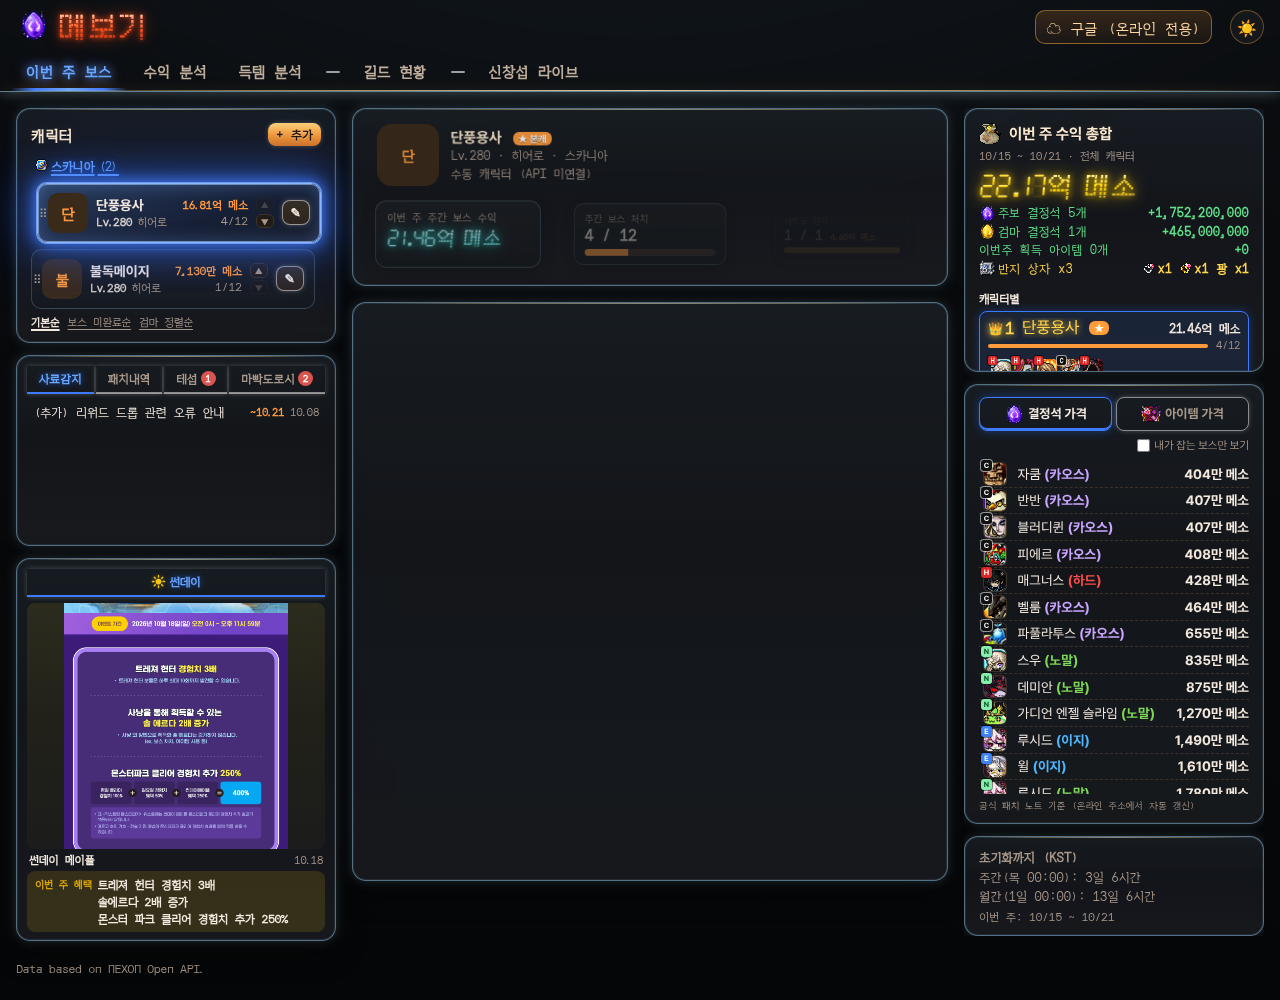
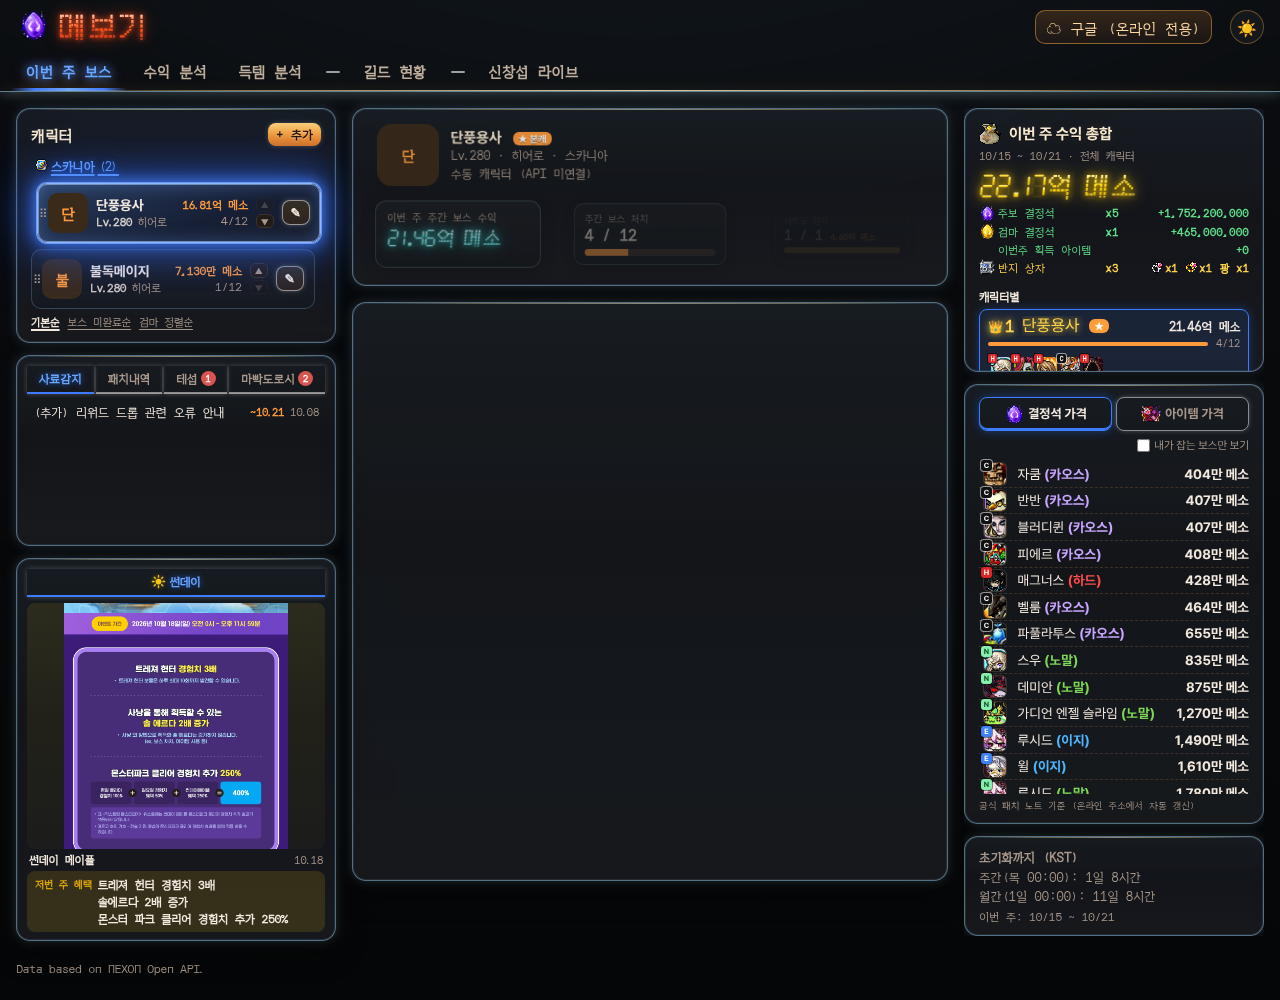
b225: 이번주 획득 아이템·주보 결정석 xN 0개여도 x0, 검마 아이템(이번 주) 개수 포함

Changed region(s): [[0.75, 0.186, 0.9688, 0.372], [0.9062, 0.186, 0.9688, 0.279]]

diff --git a/index.html b/index.html
@@ -2761,7 +2761,7 @@ const miniIcon = k => ITEM_ICONS[k] ? `<img class="ric" src="${ITEM_ICONS[k]}" a
 const outIcon = o => o==='r4'?miniIcon('ring_restraint'):o==='c4'?miniIcon('ring_continuous'):o==='gl'?miniIcon('g_life'):'';
 const xN = n => 'x'+n;
 /* b221: 이번 주 수익 총합 줄 = 이름 칸(고정 너비) + 개수 칸 xN — 주보·검마 결정석·획득 아이템·반지 상자·남은 결정석 개수가 한 세로줄 */
-const rpLbl = (lb,n) => `<span class="tsmn rplb">${esc(lb)}</span>${n>0?`<span class="tsmn rpx">${xN(n)}</span>`:''}`; // 개수 표기 공통: '리4 x1', '컨4 x3' (0개는 표시하지 않음)
+const rpLbl = (lb,n,z) => `<span class="tsmn rplb">${esc(lb)}</span>${n>0||z?`<span class="tsmn rpx">${xN(n)}</span>`:''}`; // 개수 표기 공통: '리4 x1', '컨4 x3' (0개는 표시하지 않음 — b225: z 면 x0 도 표시)
 function outTally(list, n){ const t={r4:0,c4:0,gl:0,x:0,un:0}; (list||[]).forEach(o=>{ if(o in t) t[o]++; }); t.un=Math.max(0,(+n||0)-(list||[]).length); return t; }
 // 순서대로: '미기록 · 리4 · 꽝' / compact: '리4×2 · 꽝×3 · 미기록×1'
 function outHtml(list, n, compact){
@@ -3807,10 +3807,10 @@ function revPanel(a,cur){
   return `<aside class="revpanel card" aria-label="이번 주 수익 총합">
     <h2>${miniIcon('meso')} 이번 주 수익 총합</h2>
     <div class="muted" style="font-size:.75rem;margin-top:-6px">${fmtWeek(S.period.week)} · 전체 캐릭터</div>
-    ${(()=>{ const cry=a.total+wm.meso, sale=per.reduce((t,p)=>t+pItemSale(p.c),0), n=vchars().reduce((t,c)=>t+Object.entries(c.drops||{}).reduce((x,[k,v])=>x+(isRing(parseIK(k).it)?0:(+v||0)),0),0); // b121: 반지 상자 제외
+    ${(()=>{ const cry=a.total+wm.meso, sale=per.reduce((t,p)=>t+pItemSale(p.c),0), n=vchars().reduce((t,c)=>t+Object.entries(c.drops||{}).reduce((x,[k,v])=>x+(isRing(parseIK(k).it)?0:(+v||0)),0)+Object.entries(c.mdrops||{}).reduce((x,[k,v])=>x+(isRing(parseIK(k).it)||c.monthly?.[parseIK(k).slot]!==S.period.week?0:(+v||0)),0),0); // b121: 반지 상자 제외(아래 '반지 상자' 줄) · b225: 이번 주에 잡은 검마 아이템(mdrops)도 셈 (판매 금액 pItemSale 과 같은 규칙)
       return `<div class="rp-total tirv tgoldv">${tirN(cry+sale,'eok','rp',' 메소')}</div>
-    <div class="muted rp-line rp-cry rc-g"><span class="rpl"><span class="rpg">${miniIcon('ipc')}${rpLbl('주보 결정석',a.count)}</span></span><b class="rpn">${tsm('+'+a.total.toLocaleString())}</b></div>${wm.n||wm.meso?`<div class="muted rp-line rp-cry rp-cm rc-g"><span class="rpl"><span class="rpg">${miniIcon('ipcm')}${rpLbl('검마 결정석',wm.n)}</span></span><b class="rpn">${tsm('+'+wm.meso.toLocaleString())}</b></div>`:''}
-    <div class="muted rp-line rp-sale rc-g"><span class="rpl"><span class="rpg">${topSaleIco()||'<span class="ric rpico0" aria-hidden="true"></span>'}${rpLbl('이번주 획득 아이템',n)}</span></span><b class="rpn">${tsm('+'+sale.toLocaleString())}</b></div>${weekRingLine()}${weekLeftLines(per.map(p=>p.c))}`; })()}
+    <div class="muted rp-line rp-cry rc-g"><span class="rpl"><span class="rpg">${miniIcon('ipc')}${rpLbl('주보 결정석',a.count,1)}</span></span><b class="rpn">${tsm('+'+a.total.toLocaleString())}</b></div>${wm.n||wm.meso?`<div class="muted rp-line rp-cry rp-cm rc-g"><span class="rpl"><span class="rpg">${miniIcon('ipcm')}${rpLbl('검마 결정석',wm.n)}</span></span><b class="rpn">${tsm('+'+wm.meso.toLocaleString())}</b></div>`:''}
+    <div class="muted rp-line rp-sale rc-g"><span class="rpl"><span class="rpg">${topSaleIco()||'<span class="ric rpico0" aria-hidden="true"></span>'}${rpLbl('이번주 획득 아이템',n,1)}</span></span><b class="rpn">${tsm('+'+sale.toLocaleString())}</b></div>${weekRingLine()}${weekLeftLines(per.map(p=>p.c))}`; })()}
     <div class="rp-sec">캐릭터별</div>
     <div class="rp-list">${per.map(p=>`<div class="rp-char ${p.c===cur?'on':''}" data-id="${p.c.id}" title="${esc(p.c.name)} 선택">
       <div class="rp-row rp-top">${(r=>`<span class="rp-rk">${r?rankNo(r):'<span class="rkno"><span class="rkn">-</span></span>'}</span><span class="rp-nm rkname${medal(r)?' md-'+medal(r):''}"><span class="${medal(r)?'spk':''}">${esc(p.c.name)}</span>${p.c.isMain?' <span class="mainbadge">★</span>':''}</span>`)(rk.get(p))}<b>${meso(pmeso(p))}</b></div>

diff --git a/src/app.js b/src/app.js
@@ -789,7 +789,7 @@ const miniIcon = k => ITEM_ICONS[k] ? `<img class="ric" src="${ITEM_ICONS[k]}" a
 const outIcon = o => o==='r4'?miniIcon('ring_restraint'):o==='c4'?miniIcon('ring_continuous'):o==='gl'?miniIcon('g_life'):'';
 const xN = n => 'x'+n;
 /* b221: 이번 주 수익 총합 줄 = 이름 칸(고정 너비) + 개수 칸 xN — 주보·검마 결정석·획득 아이템·반지 상자·남은 결정석 개수가 한 세로줄 */
-const rpLbl = (lb,n) => `<span class="tsmn rplb">${esc(lb)}</span>${n>0?`<span class="tsmn rpx">${xN(n)}</span>`:''}`; // 개수 표기 공통: '리4 x1', '컨4 x3' (0개는 표시하지 않음)
+const rpLbl = (lb,n,z) => `<span class="tsmn rplb">${esc(lb)}</span>${n>0||z?`<span class="tsmn rpx">${xN(n)}</span>`:''}`; // 개수 표기 공통: '리4 x1', '컨4 x3' (0개는 표시하지 않음 — b225: z 면 x0 도 표시)
 function outTally(list, n){ const t={r4:0,c4:0,gl:0,x:0,un:0}; (list||[]).forEach(o=>{ if(o in t) t[o]++; }); t.un=Math.max(0,(+n||0)-(list||[]).length); return t; }
 // 순서대로: '미기록 · 리4 · 꽝' / compact: '리4×2 · 꽝×3 · 미기록×1'
 function outHtml(list, n, compact){
@@ -1835,10 +1835,10 @@ function revPanel(a,cur){
   return `<aside class="revpanel card" aria-label="이번 주 수익 총합">
     <h2>${miniIcon('meso')} 이번 주 수익 총합</h2>
     <div class="muted" style="font-size:.75rem;margin-top:-6px">${fmtWeek(S.period.week)} · 전체 캐릭터</div>
-    ${(()=>{ const cry=a.total+wm.meso, sale=per.reduce((t,p)=>t+pItemSale(p.c),0), n=vchars().reduce((t,c)=>t+Object.entries(c.drops||{}).reduce((x,[k,v])=>x+(isRing(parseIK(k).it)?0:(+v||0)),0),0); // b121: 반지 상자 제외
+    ${(()=>{ const cry=a.total+wm.meso, sale=per.reduce((t,p)=>t+pItemSale(p.c),0), n=vchars().reduce((t,c)=>t+Object.entries(c.drops||{}).reduce((x,[k,v])=>x+(isRing(parseIK(k).it)?0:(+v||0)),0)+Object.entries(c.mdrops||{}).reduce((x,[k,v])=>x+(isRing(parseIK(k).it)||c.monthly?.[parseIK(k).slot]!==S.period.week?0:(+v||0)),0),0); // b121: 반지 상자 제외(아래 '반지 상자' 줄) · b225: 이번 주에 잡은 검마 아이템(mdrops)도 셈 (판매 금액 pItemSale 과 같은 규칙)
       return `<div class="rp-total tirv tgoldv">${tirN(cry+sale,'eok','rp',' 메소')}</div>
-    <div class="muted rp-line rp-cry rc-g"><span class="rpl"><span class="rpg">${miniIcon('ipc')}${rpLbl('주보 결정석',a.count)}</span></span><b class="rpn">${tsm('+'+a.total.toLocaleString())}</b></div>${wm.n||wm.meso?`<div class="muted rp-line rp-cry rp-cm rc-g"><span class="rpl"><span class="rpg">${miniIcon('ipcm')}${rpLbl('검마 결정석',wm.n)}</span></span><b class="rpn">${tsm('+'+wm.meso.toLocaleString())}</b></div>`:''}
-    <div class="muted rp-line rp-sale rc-g"><span class="rpl"><span class="rpg">${topSaleIco()||'<span class="ric rpico0" aria-hidden="true"></span>'}${rpLbl('이번주 획득 아이템',n)}</span></span><b class="rpn">${tsm('+'+sale.toLocaleString())}</b></div>${weekRingLine()}${weekLeftLines(per.map(p=>p.c))}`; })()}
+    <div class="muted rp-line rp-cry rc-g"><span class="rpl"><span class="rpg">${miniIcon('ipc')}${rpLbl('주보 결정석',a.count,1)}</span></span><b class="rpn">${tsm('+'+a.total.toLocaleString())}</b></div>${wm.n||wm.meso?`<div class="muted rp-line rp-cry rp-cm rc-g"><span class="rpl"><span class="rpg">${miniIcon('ipcm')}${rpLbl('검마 결정석',wm.n)}</span></span><b class="rpn">${tsm('+'+wm.meso.toLocaleString())}</b></div>`:''}
+    <div class="muted rp-line rp-sale rc-g"><span class="rpl"><span class="rpg">${topSaleIco()||'<span class="ric rpico0" aria-hidden="true"></span>'}${rpLbl('이번주 획득 아이템',n,1)}</span></span><b class="rpn">${tsm('+'+sale.toLocaleString())}</b></div>${weekRingLine()}${weekLeftLines(per.map(p=>p.c))}`; })()}
     <div class="rp-sec">캐릭터별</div>
     <div class="rp-list">${per.map(p=>`<div class="rp-char ${p.c===cur?'on':''}" data-id="${p.c.id}" title="${esc(p.c.name)} 선택">
       <div class="rp-row rp-top">${(r=>`<span class="rp-rk">${r?rankNo(r):'<span class="rkno"><span class="rkn">-</span></span>'}</span><span class="rp-nm rkname${medal(r)?' md-'+medal(r):''}"><span class="${medal(r)?'spk':''}">${esc(p.c.name)}</span>${p.c.isMain?' <span class="mainbadge">★</span>':''}</span>`)(rk.get(p))}<b>${meso(pmeso(p))}</b></div>
